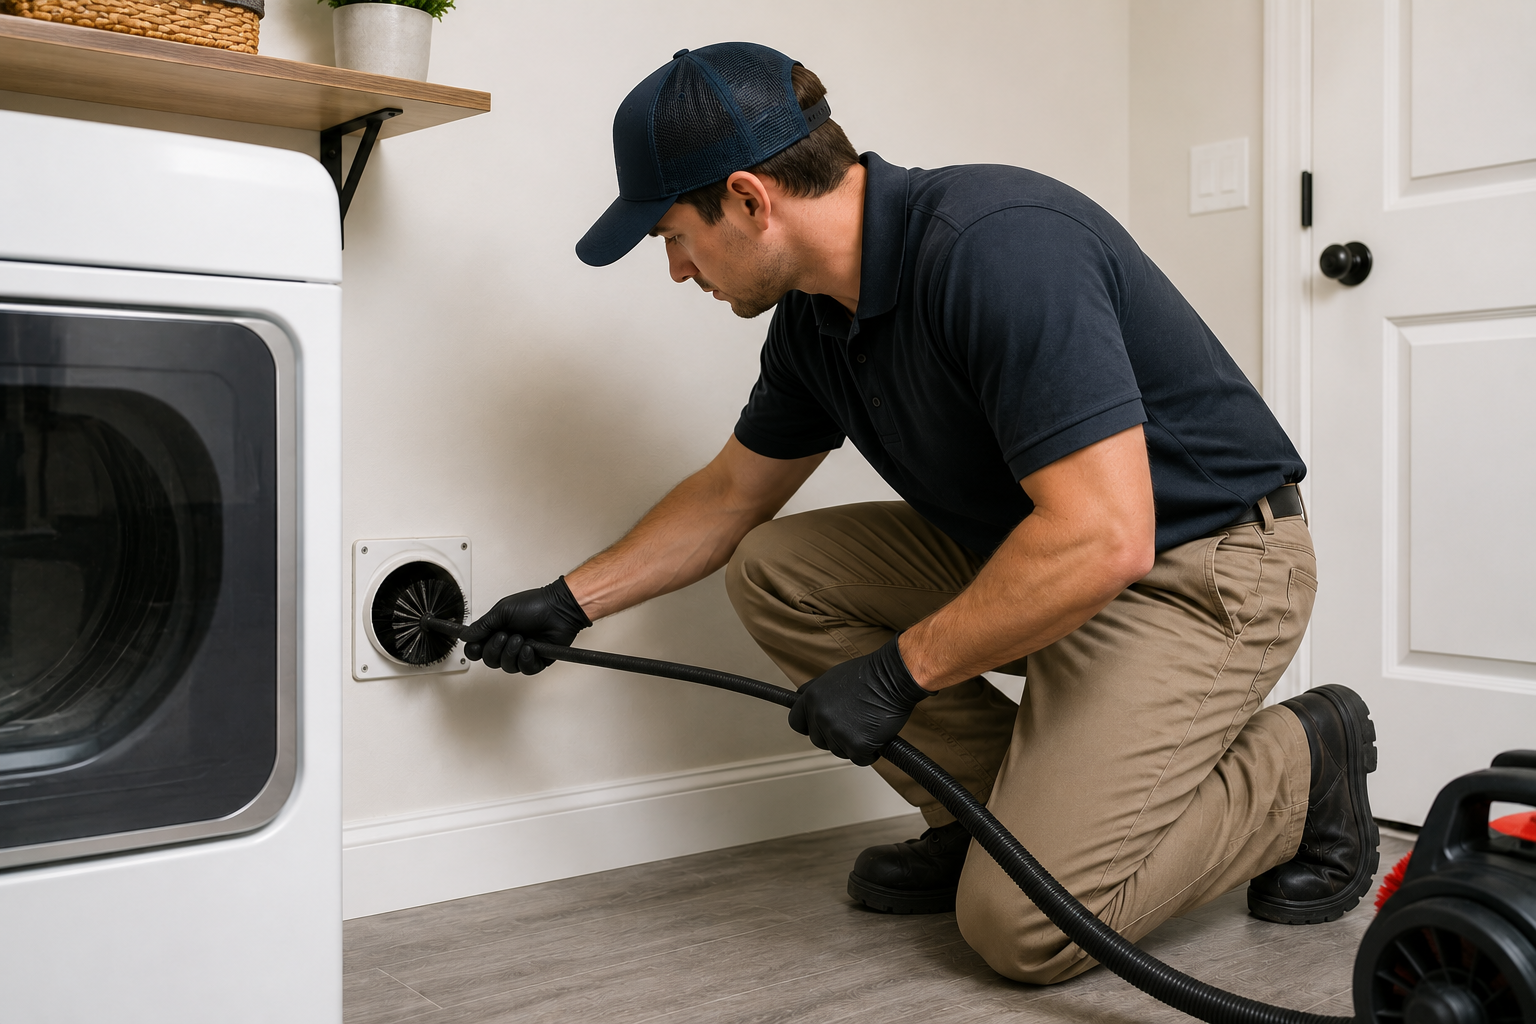
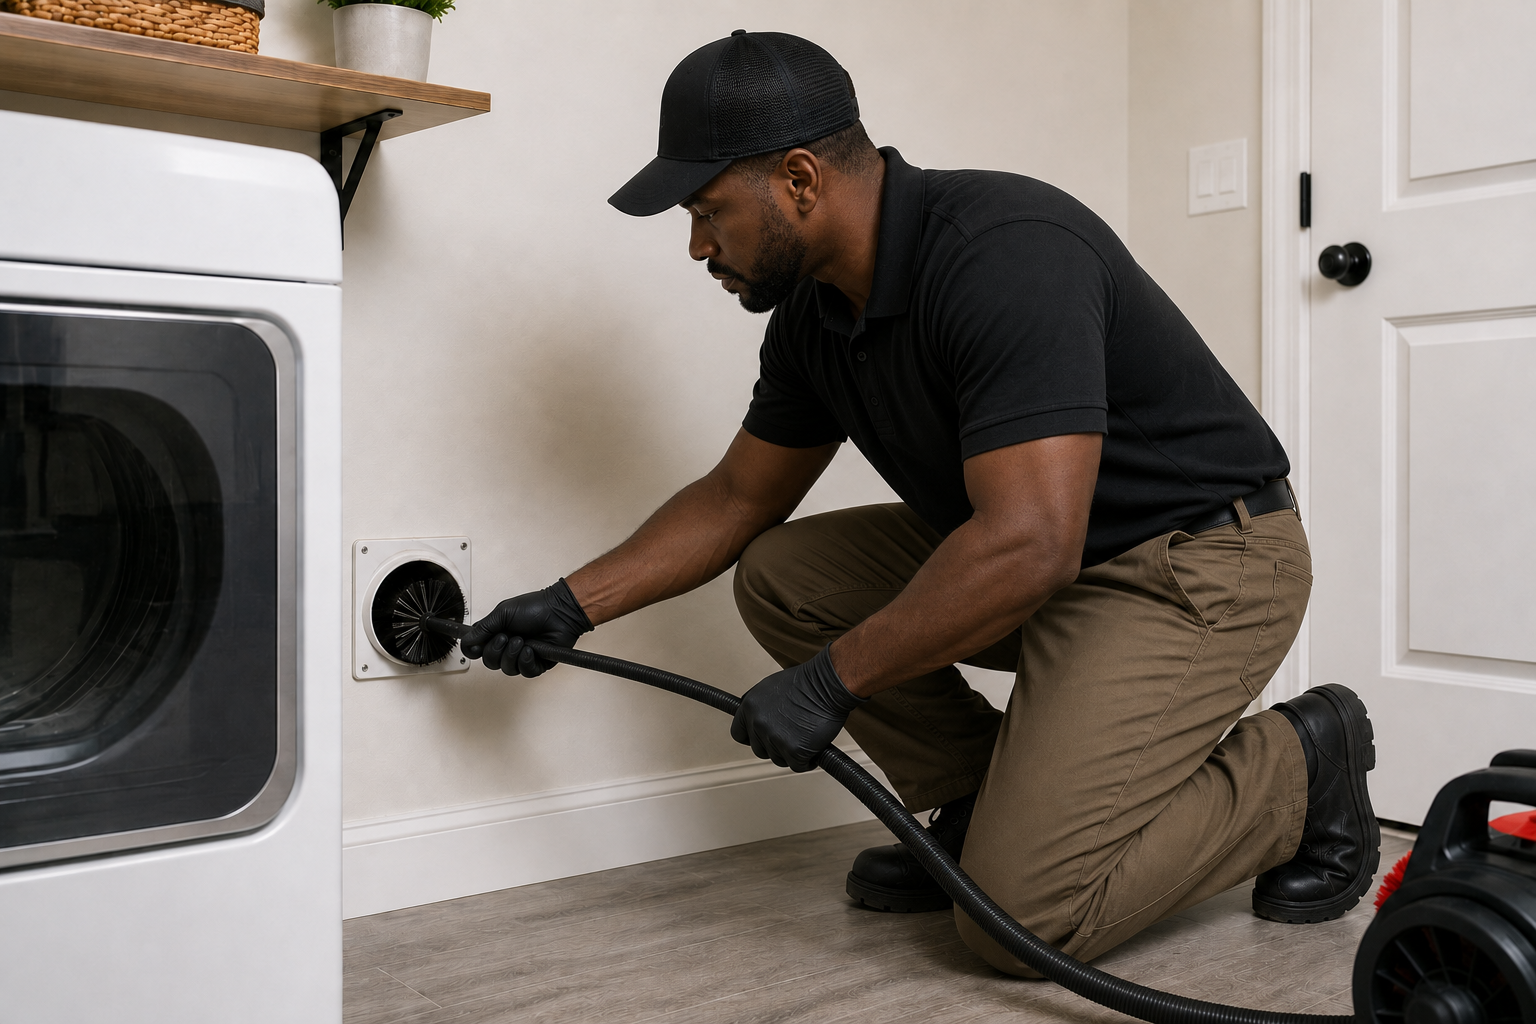
added replacement photo and warranty blog

diff --git a/pages/blog-warranty-parts.html b/pages/blog-warranty-parts.html
@@ -1,0 +1,279 @@
+<!DOCTYPE html>
+<html lang="en">
+<head>
+  <meta charset="UTF-8">
+  <meta name="viewport" content="width=device-width, initial-scale=1.0">
+  <meta name="description" content="Did you know your grill manufacturer may owe you free replacement parts? Firefly Propane helps Westchester homeowners claim warranty parts they didn't even know they had — at no cost.">
+  <title>Your Grill May Have Free Parts Waiting | Firefly Propane Blog</title>
+  <link rel="icon" href="../images/firefly-logo.png" type="image/png">
+  <link rel="stylesheet" href="https://cdn.jsdelivr.net/npm/@tabler/icons-webfont@latest/dist/tabler-icons.min.css">
+  <link rel="stylesheet" href="../css/styles.css">
+  <style>
+    .reveal { opacity: 0; transform: translateY(28px); transition: opacity 0.6s ease, transform 0.6s ease; }
+    .reveal.revealed { opacity: 1; transform: translateY(0); }
+  </style>
+</head>
+<body>
+
+<!-- NAVBAR -->
+<nav class="navbar">
+  <!-- TOP RIBBON -->
+  <div class="nav-ribbon">
+    <div class="container nav-ribbon-inner">
+      <span class="ribbon-badge">
+        <i class="ti ti-shield-check" aria-hidden="true"></i>
+        Keeping you safe since 2005
+      </span>
+      <div class="ribbon-right">
+        <a href="tel:9147693336">
+          <i class="ti ti-phone" aria-hidden="true"></i>
+          (914) 769-3336
+        </a>
+        <a href="mailto:[email redacted]">
+          <i class="ti ti-mail" aria-hidden="true"></i>
+          [email redacted]
+        </a>
+      </div>
+    </div>
+  </div>
+  <div class="container nav-inner">
+    <a href="../index.html" class="nav-logo">
+      <img src="../images/firefly-logo.png" alt="Firefly Propane logo">
+      <div>
+        <div class="nav-logo-text">Firefly</div>
+        <div class="nav-logo-sub">Propane</div>
+      </div>
+    </a>
+    <button class="nav-toggle" aria-label="Toggle navigation" aria-expanded="false">
+      <span></span><span></span><span></span>
+    </button>
+    <ul class="nav-links">
+      <li><a href="../index.html">Home</a></li>
+      <li><a href="bbq.html">BBQ</a></li>
+      <li><a href="chimney.html">Chimney</a></li>
+      <li><a href="dryer-vent.html">Dryer Vent</a></li>
+      <li><a href="mosquito.html">Mosquito</a></li>
+      <li><a href="blog.html" class="active">Tips &amp; Blog</a></li>
+      <li><a href="../index.html#about">About</a></li>
+      <!-- <li><a href="booking.html" class="btn btn-blue" style="padding:0.45rem 1rem;">Book Now</a></li> -->
+      <li><a href="../index.html#contact" class="btn btn-fire nav-cta">Get a Quote</a></li>
+    </ul>
+  </div>
+</nav>
+
+<!-- BREADCRUMB -->
+<div class="breadcrumb">
+  <div class="container">
+    <a href="../index.html">Home</a>
+    <span>›</span>
+    <a href="blog.html">Tips &amp; Blog</a>
+    <span>›</span>
+    <strong>Your Grill May Have Free Parts Waiting</strong>
+  </div>
+</div>
+
+<!-- ARTICLE HERO -->
+<section class="article-hero">
+  <div class="container">
+    <p class="section-eyebrow" style="color:rgba(255,255,255,0.8);justify-content:center;display:flex;">BBQ Care</p>
+    <h1>Your Grill May Have Free Replacement Parts Waiting</h1>
+    <div class="article-meta">
+      <span><i class="ti ti-user" aria-hidden="true"></i> Firefly Propane Team</span>
+      <span><i class="ti ti-calendar" aria-hidden="true"></i> Updated 2026</span>
+      <span><i class="ti ti-clock" aria-hidden="true"></i> 4 min read</span>
+    </div>
+  </div>
+  <svg viewBox="0 0 1440 70" fill="none" xmlns="http://www.w3.org/2000/svg" style="position:absolute;bottom:-2px;left:0;width:100%;" preserveAspectRatio="none">
+    <path d="M0,35 C360,70 1080,0 1440,35 L1440,70 L0,70 Z" fill="#fff"/>
+  </svg>
+</section>
+
+<!-- ARTICLE BODY -->
+<section class="section" style="padding-top:0;">
+  <div class="container">
+    <div class="article-body reveal">
+
+      <p>Most grill owners assume that when a part breaks or wears out, it's time to open their wallet. A new burner, a replacement igniter, a fresh set of grates — it adds up fast. But here's something a lot of people don't know: your grill manufacturer may already owe you those parts, completely free of charge. The warranty coverage you paid for when you bought your grill might still be active, and you may never have used it once.</p>
+
+      <p>At Firefly, we see this all the time. Homeowners living with a grill that doesn't heat right, has a faulty igniter, or is showing wear they assume is just normal aging — when in reality, the manufacturer is required to replace those parts under warranty. The problem isn't availability. The problem is that most people don't know how to check, what to look for, or how to file the claim.</p>
+
+      <p>That's where we come in.</p>
+
+      <div class="article-tip-box">
+        <p><i class="ti ti-gift" aria-hidden="true" style="vertical-align:-3px;color:var(--fire-orange);"></i> Firefly helps you identify and claim warranty parts at no cost to you. We handle the paperwork, take the photos, and within days the parts are at your door.</p>
+      </div>
+
+      <h2>What is a grill warranty, and what does it cover?</h2>
+
+      <p>When you purchase a gas grill, it almost always comes with a manufacturer's warranty — though the coverage length and terms vary widely by brand and model. Most warranties fall into a few categories:</p>
+
+      <ul>
+        <li><strong>Burner warranties</strong> — often 5 to 10 years, sometimes lifetime on premium grills</li>
+        <li><strong>Cooking grate warranties</strong> — typically 2 to 5 years against rust-through or defects</li>
+        <li><strong>Igniter warranties</strong> — usually 1 to 3 years</li>
+        <li><strong>Housing and lid warranties</strong> — often 3 to 5 years against paint peeling or rust-through</li>
+        <li><strong>Electrical component warranties</strong> — varies by manufacturer</li>
+      </ul>
+
+      <p>Brands like Weber, Napoleon, Broil King, and DCS are well known for honoring warranty claims — but only if you file one. The manufacturer won't come looking for you. If you don't know the process, those benefits quietly expire unused.</p>
+
+      <h2>How do you know if your grill is still under warranty?</h2>
+
+      <p>The honest answer: most people have no idea. Warranties aren't prominently displayed on the grill itself, and the documentation that came in the box has usually long since been thrown away or buried in a drawer. Here's how to check:</p>
+
+      <ol class="article-numbered-list">
+        <li>
+          <strong>Find your model number</strong>
+          It's usually on a sticker inside the lid, on the back of the grill, or on the cart frame. It looks something like "E-310" or "700 Series." This is what the manufacturer needs to look up your warranty terms.
+        </li>
+        <li>
+          <strong>Check your purchase date</strong>
+          A receipt, credit card statement, or online order confirmation is enough. If you registered your grill at purchase, even better — the manufacturer will have it on file.
+        </li>
+        <li>
+          <strong>Visit the manufacturer's website</strong>
+          Most major grill brands have a warranty lookup page or a customer service line where you can confirm coverage with your model number and purchase date.
+        </li>
+        <li>
+          <strong>Call Firefly</strong>
+          If this sounds like more work than you want to do — just call us. When we come out to service your grill, we assess its condition and check whether any failing or worn parts fall under the manufacturer's coverage. We do this as part of every service visit.
+        </li>
+      </ol>
+
+      <h2>What parts are most commonly covered?</h2>
+
+      <p>During a service visit, the components we most frequently find eligible for warranty replacement are:</p>
+
+      <ul>
+        <li><strong>Burner tubes</strong> that have corroded, warped, or developed uneven flame distribution</li>
+        <li><strong>Cooking grates</strong> with rust-through or structural defects (not cosmetic surface rust from lack of maintenance)</li>
+        <li><strong>Igniters</strong> that have failed entirely or only spark intermittently</li>
+        <li><strong>Flavorizer bars or heat shields</strong> that have corroded beyond normal wear</li>
+        <li><strong>Lid components</strong> with paint peeling or structural failure within the warranty window</li>
+      </ul>
+
+      <div class="article-tip-box">
+        <p><i class="ti ti-info-circle" aria-hidden="true" style="vertical-align:-3px;color:var(--fire-orange);"></i> Warranty claims typically cover manufacturing defects and premature failure — not damage from misuse or lack of maintenance. A clean, regularly serviced grill is more likely to have a valid claim honored.</p>
+      </div>
+
+      <h2>How Firefly handles it — from assessment to delivery</h2>
+
+      <p>Here's exactly what happens when we identify a warranty-eligible part during a service visit:</p>
+
+      <ol class="article-numbered-list">
+        <li>
+          <strong>We assess your grill</strong>
+          During your cleaning or service appointment, we thoroughly inspect every component — burners, grates, igniters, housing, and more. We're not just cleaning. We're evaluating.
+        </li>
+        <li>
+          <strong>We identify what's covered</strong>
+          If we find a component that's failing or defective and your grill is within the warranty window, we flag it and explain exactly what's eligible and why.
+        </li>
+        <li>
+          <strong>We take the photos</strong>
+          Manufacturers require documentation — clear photographs of the defective part, the model label, and sometimes the overall grill condition. We handle all of that on-site.
+        </li>
+        <li>
+          <strong>We help with the paperwork</strong>
+          Warranty claims can be confusing. We walk you through the process, help you fill out any required forms, and make sure the claim is submitted correctly the first time.
+        </li>
+        <li>
+          <strong>Parts arrive at your door</strong>
+          Once the claim is approved — typically within a few business days — the manufacturer ships the replacement parts directly to your home. We can then install them at your next service visit.
+        </li>
+      </ol>
+
+      <p>All of this — the assessment, the photos, the paperwork guidance — is done at no additional charge. It's part of how we service your grill.</p>
+
+      <h2>Why does this matter?</h2>
+
+      <p>Because a grill with a failing burner or a cracked grate isn't just annoying — it's a safety issue. Uneven heat distribution from a warped burner can cause dangerous flare-ups. A corroded grate can contaminate food. An igniter that doesn't spark reliably means you're letting gas accumulate before it lights — which is exactly the kind of thing that causes accidents.</p>
+
+      <p>Getting these parts replaced under warranty means your grill is restored to the condition it was designed to operate at — safely, efficiently, and without coming out of your pocket.</p>
+
+      <div class="article-tip-box">
+        <p><i class="ti ti-flame" aria-hidden="true" style="vertical-align:-3px;color:var(--fire-orange);"></i> You paid for that warranty when you bought your grill. Let us help you use it.</p>
+      </div>
+
+      <h2>The bottom line</h2>
+
+      <p>Grill warranties are one of the most underused benefits in home ownership. Most people either don't know they have one, don't know how to check, or find the claims process frustrating enough to give up. Firefly exists to close that gap. When we service your grill, we're not just cleaning it — we're making sure you get every bit of value out of the equipment you already own.</p>
+
+      <p>If your grill isn't performing the way it used to, or if you just can't remember the last time anyone looked it over properly, give us a call. We'll clean it, assess it, and if there are parts owed to you by the manufacturer, we'll make sure you get them.</p>
+
+    </div>
+  </div>
+</section>
+
+<!-- CTA -->
+<section class="cta-strip">
+  <div class="container">
+    <h2>Think your grill might have warranty coverage?</h2>
+    <p>Schedule a service visit and let Firefly assess your grill — we'll handle the rest.</p>
+    <a href="../index.html#contact" class="btn btn-outline" style="border-color:#fff;color:#fff;">Get a Free Quote</a>
+  </div>
+</section>
+
+<!-- MORE ARTICLES -->
+<section class="section section-alt">
+  <div class="container">
+    <div class="section-header text-center reveal">
+      <p class="section-eyebrow">Keep Reading</p>
+      <h2>More <span class="fire-text">Tips &amp; Guides</span></h2>
+    </div>
+    <div style="text-align:center;">
+      <a href="blog.html" class="btn btn-fire">Back to All Tips</a>
+    </div>
+  </div>
+</section>
+
+<!-- FOOTER -->
+<footer class="footer">
+  <div class="container">
+    <div class="footer-grid">
+      <div class="footer-brand">
+        <img src="../images/firefly-logo.png" alt="Firefly Propane">
+        <p>Westchester's trusted local team for BBQ, chimney, dryer vent &amp; mosquito services.</p>
+        <div class="social-icons">
+          <!-- <a href="#" aria-label="Firefly Propane on Facebook"><i class="ti ti-brand-facebook" aria-hidden="true"></i></a> -->
+          <a href="#" aria-label="Firefly Propane on Instagram"><i class="ti ti-brand-instagram" aria-hidden="true"></i></a>
+          <a href="https://www.google.com/search?q=Firefly+Propane+Westchester+NY+reviews" target="_blank" rel="noopener" aria-label="Firefly Propane on Google"><i class="ti ti-brand-google" aria-hidden="true"></i></a>
+        </div>
+      </div>
+      <div class="footer-col">
+        <h4>Services</h4>
+        <ul>
+          <li><a href="bbq.html">BBQ Clean &amp; Repair</a></li>
+          <li><a href="chimney.html">Chimney Sweeping</a></li>
+          <li><a href="dryer-vent.html">Dryer Vent Cleaning</a></li>
+          <li><a href="mosquito.html">Mosquito Magnets</a></li>
+        </ul>
+      </div>
+      <div class="footer-col">
+        <h4>Company</h4>
+        <ul>
+          <li><a href="../index.html#about">About Us</a></li>
+          <li><a href="../index.html#reviews">Reviews</a></li>
+          <li><a href="blog.html">Tips &amp; Blog</a></li>
+          <!-- <li><a href="booking.html">Book Online</a></li> -->
+          <li><a href="../index.html#contact">Contact</a></li>
+        </ul>
+      </div>
+      <div class="footer-col">
+        <h4>Contact</h4>
+        <ul>
+          <li><a href="tel:9147693336"><i class="ti ti-phone" aria-hidden="true"></i> (914) 769-3336</a></li>
+          <li><a href="mailto:[email redacted]"><i class="ti ti-mail" aria-hidden="true"></i> [email redacted]</a></li>
+          <li>Westchester County, NY</li>
+        </ul>
+      </div>
+    </div>
+    <div class="footer-bottom">
+      <p>&copy; 2026 Firefly Propane. All rights reserved. | Made with <i class="ti ti-flame" aria-hidden="true" style="color:var(--fire-orange);"></i> in Westchester, NY</p>
+    </div>
+  </div>
+</footer>
+
+<script src="../js/main.js"></script>
+</body>
+</html>

diff --git a/pages/blog.html b/pages/blog.html
@@ -99,6 +99,19 @@
         </div>
       </a>
 
+      <a href="blog-warranty-parts.html" class="blog-card">
+        <div class="blog-card-img"><i class="ti ti-receipt-refund" aria-hidden="true"></i></div>
+        <div class="blog-card-body">
+          <span class="blog-card-tag">BBQ Care</span>
+          <h3>Your Grill May Have Free Replacement Parts Waiting</h3>
+          <p>Most homeowners don't know their grill's warranty could cover failing burners, grates, and igniters — at no cost.</p>
+          <div class="blog-card-meta">
+            <i class="ti ti-clock" aria-hidden="true"></i> 4 min read
+          </div>
+          <span class="blog-card-link">Read article <i class="ti ti-arrow-right" aria-hidden="true"></i></span>
+        </div>
+      </a>
+
       <div class="blog-card" style="opacity:0.7;cursor:default;">
         <div class="blog-card-img"><i class="ti ti-home" aria-hidden="true"></i></div>
         <div class="blog-card-body">
@@ -136,7 +149,6 @@
       </div>
 
     </div>
-
     <p style="text-align:center;color:var(--mid-gray);font-size:0.88rem;margin-top:2.5rem;">
       More guides on the way! <a href="../index.html#contact" style="color:var(--fire-orange);font-weight:800;">Got a topic you'd like us to cover?</a>
     </p>